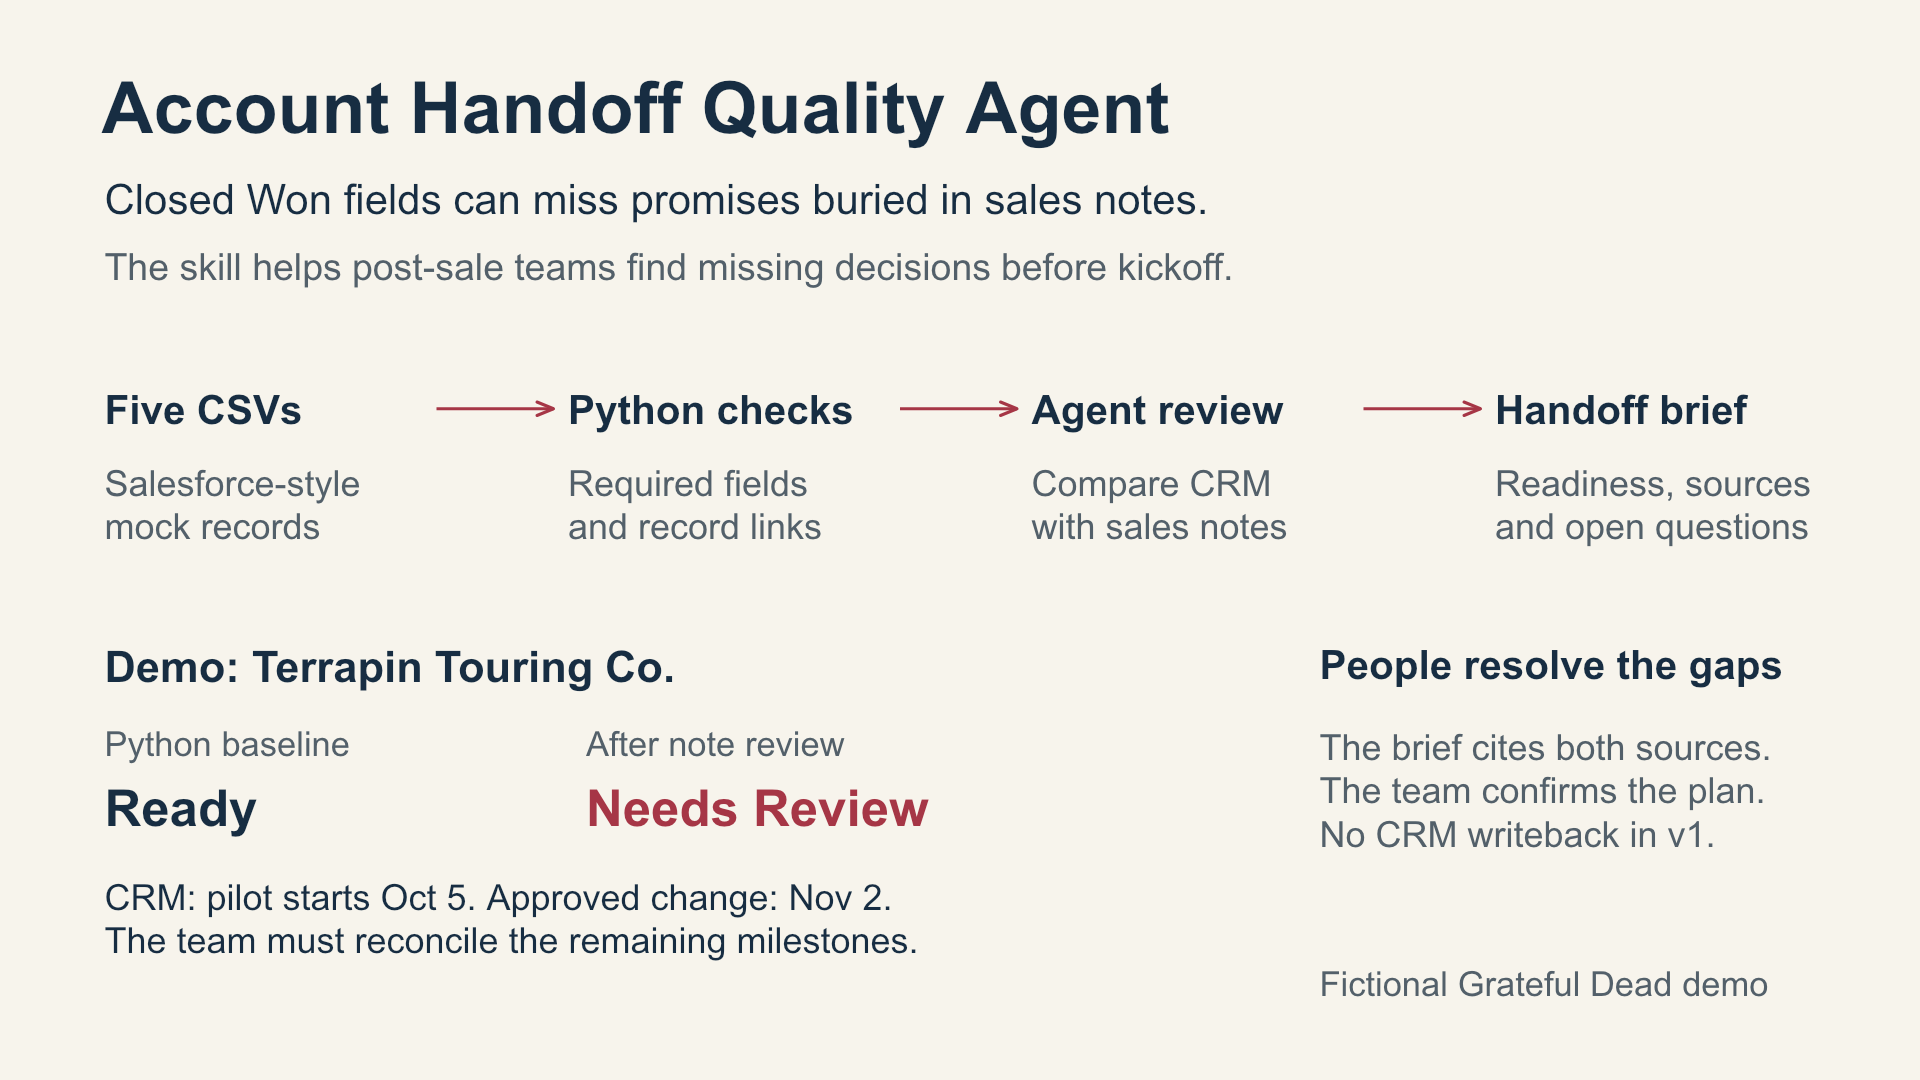
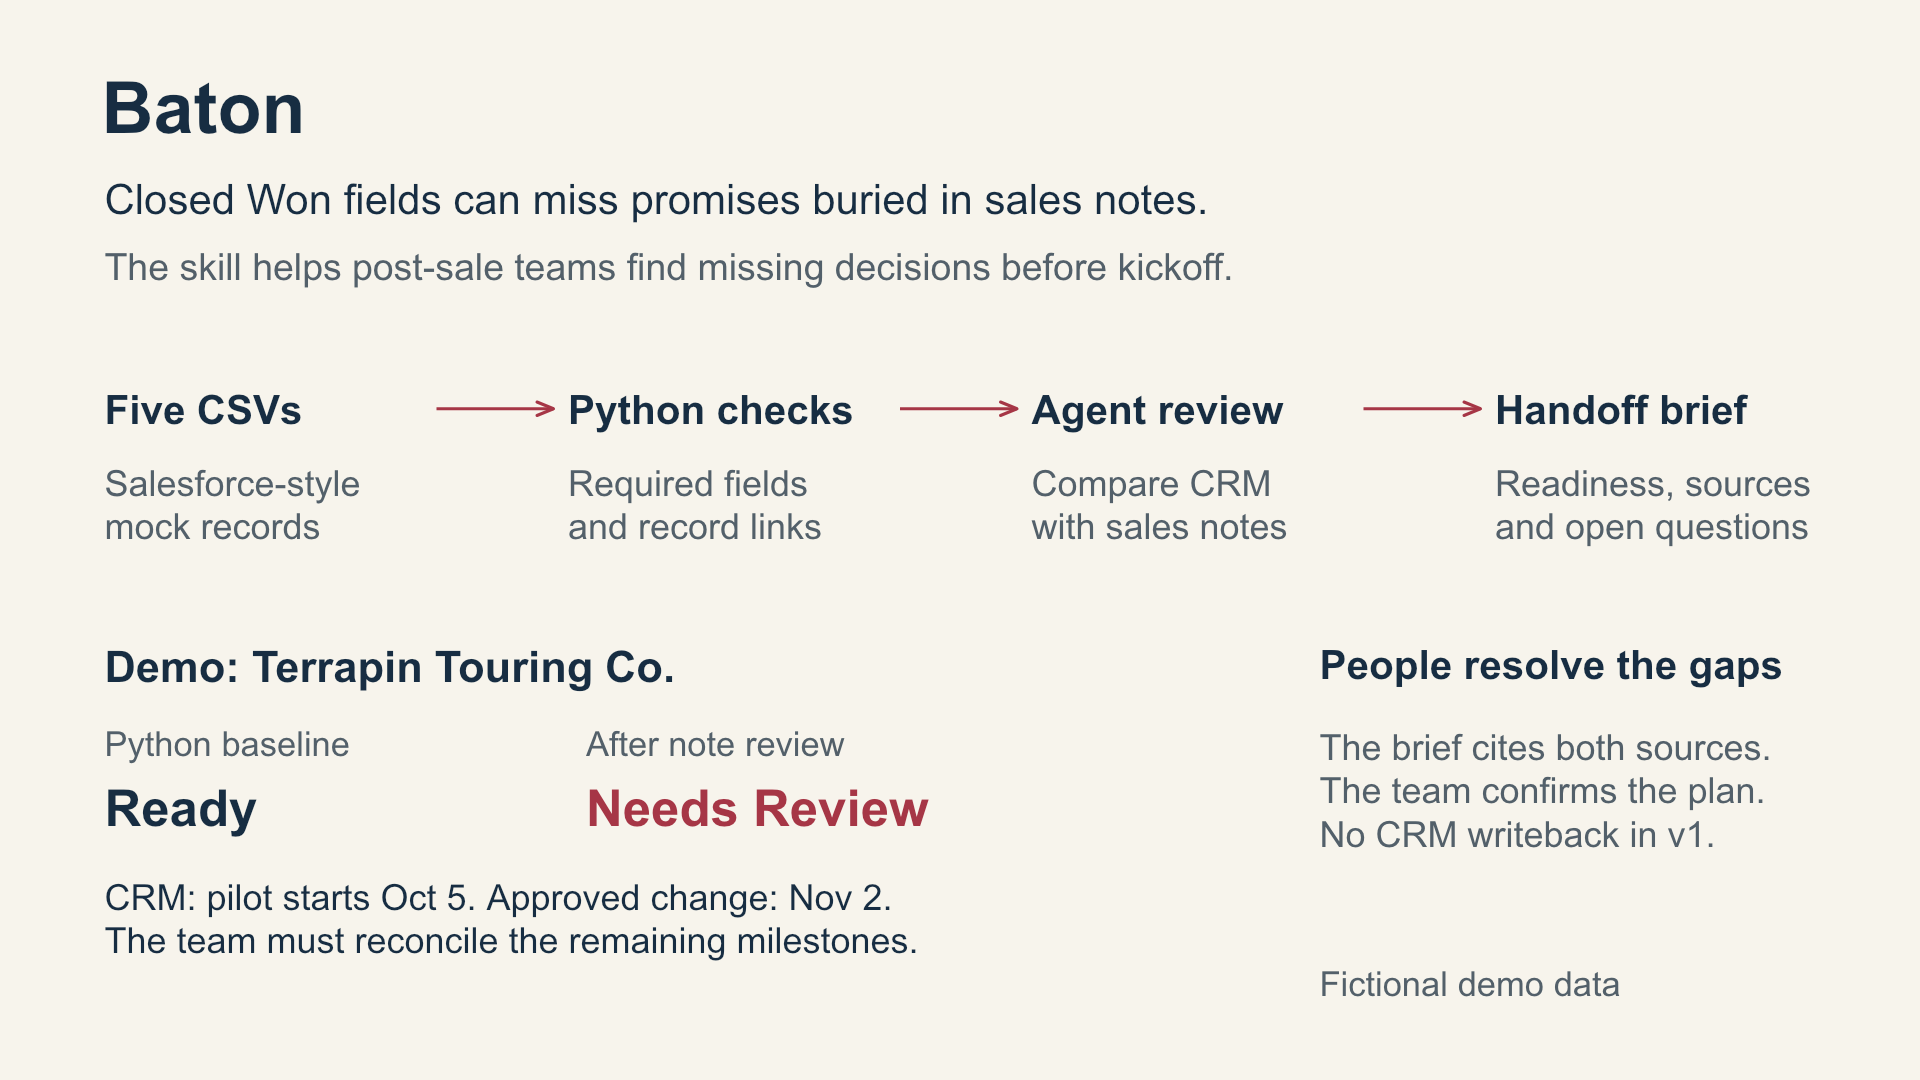
Rename project to Baton and simplify demo documentation

Changed region(s): [[0.0312, 0.0611, 0.625, 0.1528], [0.75, 0.8861, 0.9062, 0.9472]]

diff --git a/docs/validation-notes.md b/docs/validation-notes.md
@@ -19,7 +19,7 @@ receiving team before real use.
 - **27 automated CLI tests passed**, including parameterized cases for
   placeholders, missing columns, duplicate IDs, broken references, selection,
   readiness, source preservation, and exact attribution of stakeholder issues.
-- Default themed fixture: **Blocked**, with the three intended core gaps.
+- Default fixture: **Blocked**, with the three intended core gaps.
 - Complete fixture: structured baseline **Ready**.
 - Missing-next-step fixture: **Needs Review**, even though notes contain an action.
 - Conflicting-notes fixture: structured baseline **Ready**, with both conflicting
@@ -30,8 +30,8 @@ receiving team before real use.
   complete export as **Ready** and the conflicting export as **Needs Review**,
   citing the stale CRM timeline and the explicit rescheduling note.
 
-All named accounts, contacts, deals, and notes are fictional and Grateful Dead
-themed. Tests use disposable input copies. The revised project does not change
+All named accounts, contacts, deals, and notes are fictional.
+Tests use disposable input copies. The revised project does not change
 source records during an assessment.
 
 ## What these checks do not prove

diff --git a/docs/submission-checklist.md b/docs/submission-checklist.md
@@ -8,7 +8,7 @@ separates prepared materials from actions still needed before submission.
 | --- | --- | --- |
 | Working agent skill with YAML frontmatter | Done | [SKILL.md](../SKILL.md) and [validator](../scripts/analyze_handoff.py). |
 | At least one external data source | Done | Five CSV exports in `data/`. The assignment explicitly accepts structured files and mock data. |
-| Public GitHub repository | Done | [Account Handoff Quality Agent](https://github.com/KeepTheLidOnTight/account-handoff-quality-agent) contains the skill, validator, fictional data, examples, and demo materials. |
+| Public GitHub repository | Done | [Baton](https://github.com/KeepTheLidOnTight/baton) contains the skill, validator, fictional data, examples, and demo materials. |
 | Short README with setup and run instructions | Done | [README](../README.md). |
 | Clear GTM problem and business impact | Prepared | [One-pager](one-pager.md) explains the handoff problem and intended benefit. Savings have not been measured. |
 | Use AI tooling and explain how it helped | Done and documented | [Validation notes](validation-notes.md) and [interview prep](interview-prep.md) explain the AI-assisted build and review. |

diff --git a/SKILL.md b/SKILL.md
@@ -1,9 +1,9 @@
 ---
-name: account-handoff-quality-agent
+name: baton
 description: Assess a Closed Won sales-to-post-sale handoff using Salesforce-style CSV exports and sales notes. Identify missing information, reconcile conflicting evidence, and produce an attributable handoff brief without changing CRM data.
 ---
 
-# Account Handoff Quality Agent
+# Baton
 
 ## Goal
 
@@ -93,4 +93,4 @@ Anything labeled `Inference` must be phrased as a possibility, not a fact. Label
 
 ## Demo and Verification
 
-The bundled records are fictional, Grateful Dead themed examples. Default data demonstrates an incomplete handoff. See [scenario guide](docs/scenarios.md) for complete, review, conflicting-evidence, and invalid-input examples. The theme does not change the business rules. Run regression checks with `python3 -B -m unittest discover -s tests -v`.
+The bundled records are fictional examples. Default data demonstrates an incomplete handoff. See [scenario guide](docs/scenarios.md) for complete, review, conflicting-evidence, and invalid-input examples. Run regression checks with `python3 -B -m unittest discover -s tests -v`.

diff --git a/docs/one-pager.md b/docs/one-pager.md
@@ -1,4 +1,4 @@
-# Account Handoff Quality Agent
+# Baton
 
 A practical check before sales hands a deal to implementation.
 
@@ -28,4 +28,4 @@ I used AI to draft the skill, validator, and fictional data, then asked it to re
 
 I would agree on the handoff policy with sales and implementation, add read-only CRM access with least-privilege permissions, and limit who can see or retain customer data. For reliability, I would monitor failed runs, validate export freshness, and make retries safe. At scale, I would fetch only the relevant records and handle API limits. For accuracy, I would evaluate labeled real-world cases, review contradictions with a person, and track missed gaps and false alarms. Any future writeback would need human approval and an audit trail.
 
-*Demo data is entirely fictional and Grateful Dead themed. It contains no real customer records, band biographies, or lyrics.*
+*Demo data is entirely fictional. It contains no real customer records or personal data.*

diff --git a/docs/scenarios.md b/docs/scenarios.md
@@ -1,6 +1,6 @@
-# Grateful Dead-themed demo scenarios
+# Demo scenarios
 
-Every company, person, address, domain, deal, and note in these datasets is fictional. The theme uses playful names, not real band biographies, lyrics, customers, or personal data. IDs are mock relationship keys; these fixtures are not represented as Salesforce-import-ready. The `.example` domain is reserved for examples.
+Every company, person, address, domain, deal, and note in these datasets is fictional. No real customer records or personal data are included. IDs are mock relationship keys; these fixtures are not represented as Salesforce-import-ready. The `.example` domain is reserved for examples.
 
 Each folder contains a complete, isolated set of the five CSVs. IDs intentionally repeat between folders so a single changed condition is easy to compare. Do not combine the folders into one input directory.
 

diff --git a/README.md b/README.md
@@ -1,4 +1,4 @@
-# Account Handoff Quality Agent
+# Baton
 
 A deal can be Closed Won and still be a messy handoff. The CRM has a few blank
 fields, the rollout plan is buried in call notes, and the implementation team
@@ -8,8 +8,8 @@ I built this skill to review that information and give the receiving team a
 brief they can work from: customer goals, stakeholders, commitments, missing
 details, and questions to resolve.
 
-The demo customer is **Terrapin Touring Co.** All the data is fictional and
-Grateful Dead themed. I used Salesforce-style CSVs so the demo can run without
+The demo customer is **Terrapin Touring Co.** All the data is fictional.
+I used Salesforce-style CSVs so the demo can run without
 setting up a Salesforce org.
 
 ## Try it

diff --git a/docs/loom-walkthrough.md b/docs/loom-walkthrough.md
@@ -41,7 +41,7 @@ available on screen. Don't present a saved assessment as a live model run.
 
 **Show:** the summary slide.
 
-I built an account handoff quality skill for the transition from sales to
+I built Baton, a skill for the transition from sales to
 implementation or customer success. The problem is that the receiving team can
 have a closed deal without a clear picture of what was promised or what's still
 missing. This reviews CRM records and sales notes together and produces a brief

diff --git a/docs/interview-prep.md b/docs/interview-prep.md
@@ -6,7 +6,7 @@ personal experience only if it is something you actually did.
 
 ## Your 30-second introduction
 
-I built an account handoff quality skill for the point where a deal moves from
+I built Baton, a skill for the point where a deal moves from
 sales to implementation or customer success. It reads CRM-style records and
 sales notes, checks what's missing, and gives the receiving team a brief with
 the context and questions they need before kickoff. Python handles the record
